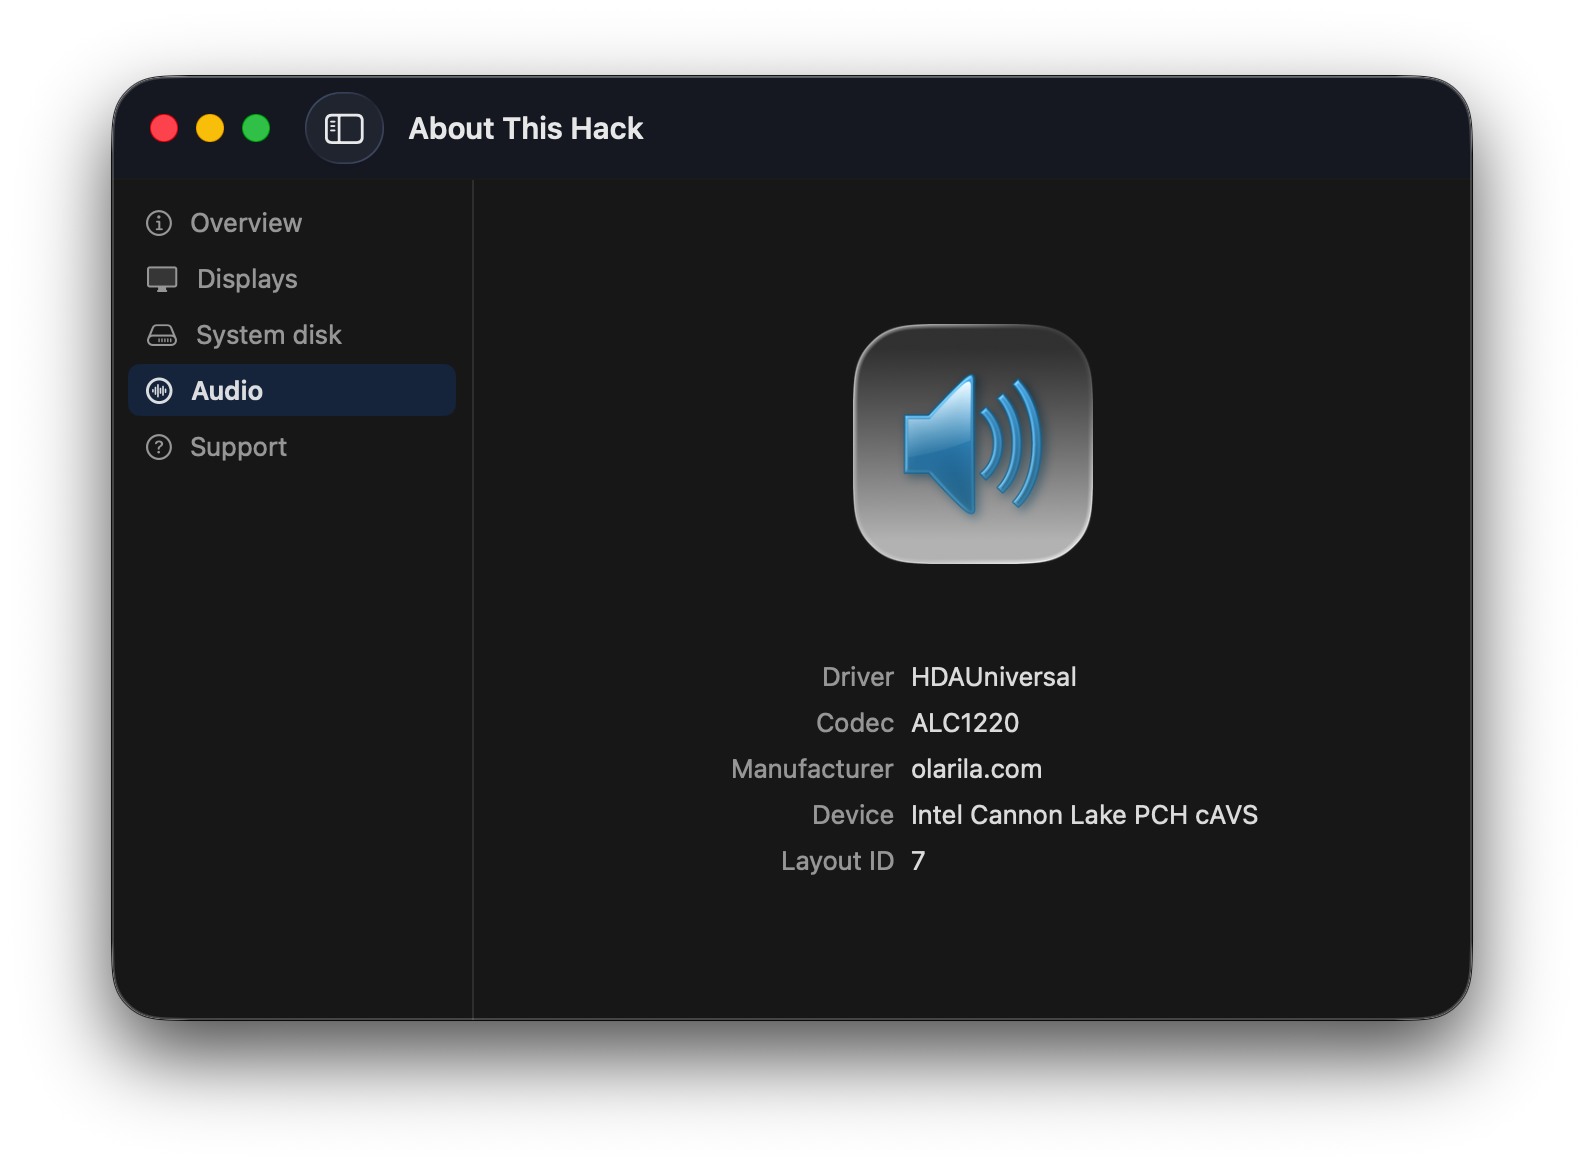
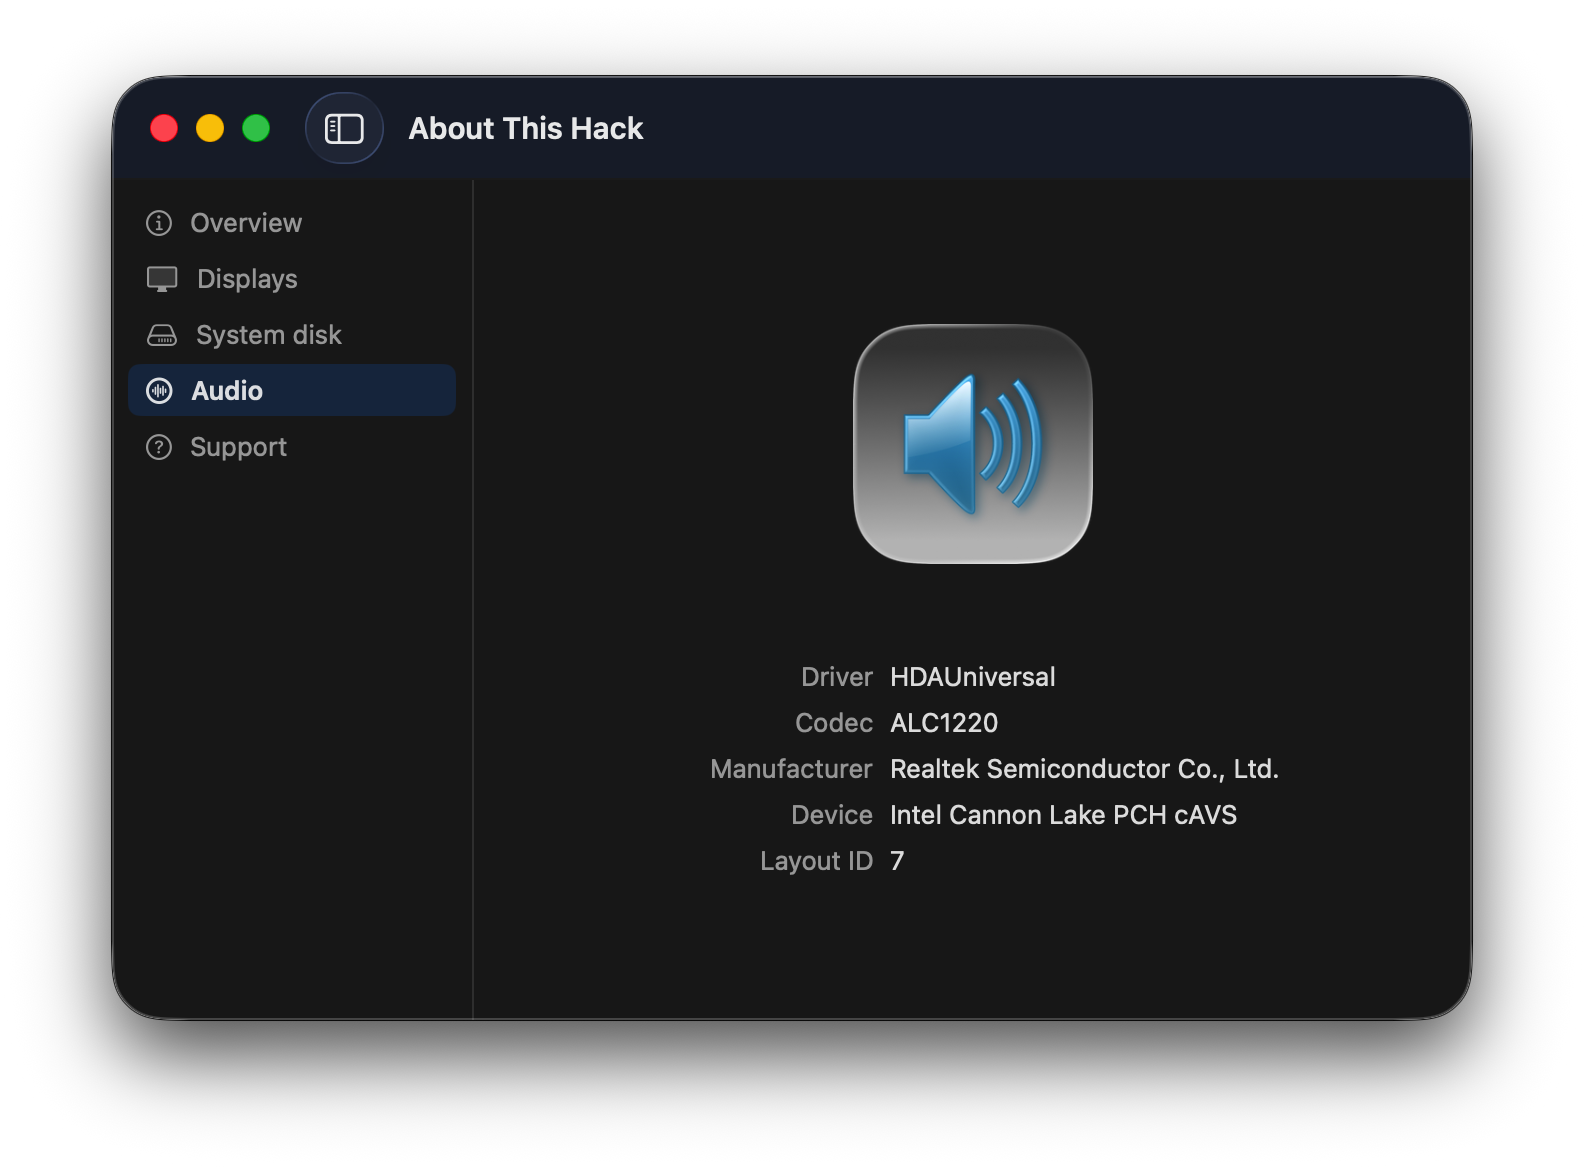
Improve HDAUniversal codec/vendor detection

Changed region(s): [[0.4331, 0.5548, 0.8043, 0.7705]]

diff --git a/About This Hack/HardwareCollectors/HCAudio.swift b/About This Hack/HardwareCollectors/HCAudio.swift
@@ -107,30 +107,52 @@ class HCAudio {
         if !hdaUniversalOutput.isEmpty {
             // Try to read the real codec name from IOAudioDeviceShortName property.
             // Line format:  "IOAudioDeviceShortName" = "ALC1220"
+            // Also try to read the codec vendor ID from HDAUniversalEffectiveCodecID
+            // (decimal integer, e.g. 283906592 = 0x10EC1220 → vendor 0x10EC = Realtek).
             var hdaCodecName = "HDAUniversal"
+            var hdaVendorName = ""
+            var hdaVendorHex = ""
+            var hdaCodecHex = ""
             let shortNameKey = "\"IOAudioDeviceShortName\""
+            let codecIdKey = "\"HDAUniversalEffectiveCodecID\""
             for line in hdaUniversalOutput.components(separatedBy: "\n") {
                 let trimmed = line.trimmingCharacters(in: .whitespaces)
-                guard let keyRange = trimmed.range(of: shortNameKey) else { continue }
-                let prefix = trimmed[..<keyRange.lowerBound]
-                guard prefix.allSatisfy({ $0 == "|" || $0 == "+" || $0 == "-" || $0 == "o" || $0 == " " || $0 == "\t" }) else { continue }
-                if let eqRange = trimmed.range(of: "=") {
-                    let trimSet = CharacterSet.whitespaces.union(CharacterSet(charactersIn: "\""))
-                    let value = trimmed[eqRange.upperBound...].trimmingCharacters(in: trimSet)
-                    if !value.isEmpty {
-                        hdaCodecName = value
+                if hdaCodecName == "HDAUniversal", let keyRange = trimmed.range(of: shortNameKey) {
+                    let prefix = trimmed[..<keyRange.lowerBound]
+                    if prefix.allSatisfy({ $0 == "|" || $0 == "+" || $0 == "-" || $0 == "o" || $0 == " " || $0 == "\t" }),
+                       let eqRange = trimmed.range(of: "=") {
+                        let trimSet = CharacterSet.whitespaces.union(CharacterSet(charactersIn: "\""))
+                        let value = trimmed[eqRange.upperBound...].trimmingCharacters(in: trimSet)
+                        if !value.isEmpty { hdaCodecName = value }
                     }
                 }
-                break
+                if trimmed.contains(codecIdKey), let eqRange = trimmed.range(of: "=") {
+                    let valueStr = trimmed[eqRange.upperBound...].trimmingCharacters(in: .whitespaces)
+                    // Value is a decimal integer; also accept 0x-prefixed hex just in case.
+                    let codecId: UInt32?
+                    if valueStr.lowercased().hasPrefix("0x") {
+                        codecId = UInt32(valueStr.dropFirst(2), radix: 16)
+                    } else {
+                        codecId = UInt32(valueStr)
+                    }
+                    if let id = codecId, id > 0 {
+                        let vendorCode = (id >> 16) & 0xFFFF
+                        let (vName, vHex) = lookupAudioVendorName(vendorCode: vendorCode)
+                        hdaVendorName = vName
+                        hdaVendorHex = vHex
+                        let (_, cHex) = lookupCodecName(vendorId: id)
+                        hdaCodecHex = cHex
+                    }
+                }
             }
             return AudioInfo(
                 codecName: hdaCodecName,
-                vendorName: "olarila.com",
+                vendorName: hdaVendorName,
                 deviceName: deviceName,
                 layoutId: layoutId,
                 driver: "HDAUniversal",
-                codecHex: "",
-                vendorHex: "",
+                codecHex: hdaCodecHex,
+                vendorHex: hdaVendorHex,
                 deviceHex: deviceHex
             )
         }
